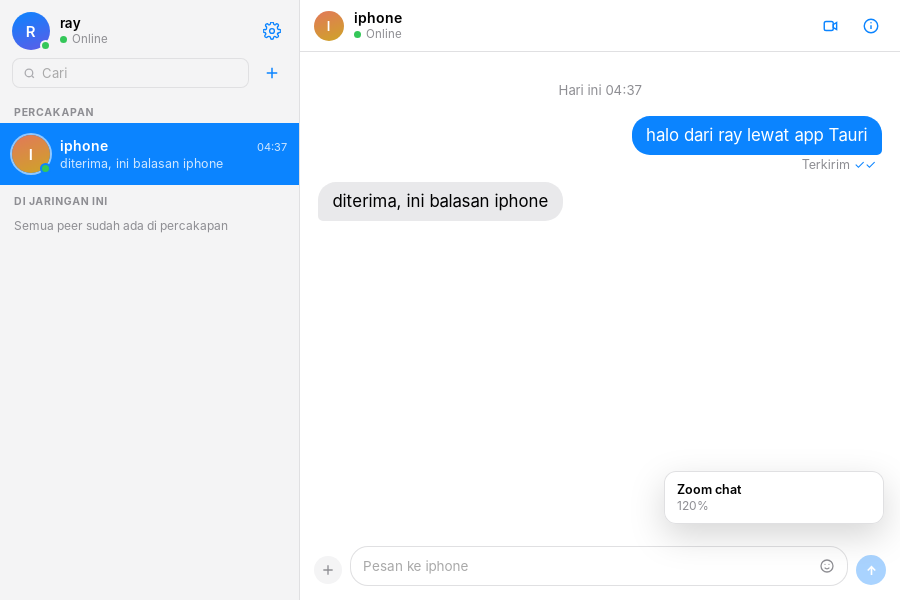
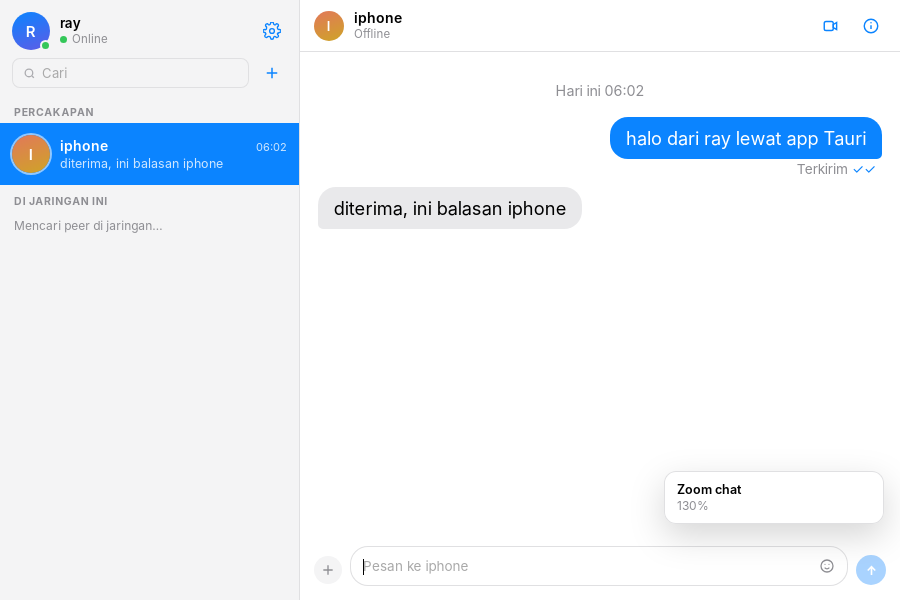
uji ulang pakai binary release 5.6MB; fix skrip E2E (fokus window, pkill self-kill); zoom dibuktikan via SQLite

diff --git a/docs/M1-M2-RESULT.md b/docs/M1-M2-RESULT.md
@@ -50,8 +50,9 @@ dengan nama pengirim di atas bubble untuk grup.
 | Kirim pesan via Enter | ✅ masuk DB, ack diterima, ✓✓ muncul |
 | Balas dari instance lain | ✅ sampai ke window pertama dan tampil sebagai bubble masuk |
 | Klik gear → modal Pengaturan | ✅ modal terbuka (Light/Dark, warna bubble, radius, zoom) |
-| `Ctrl + +` 4× | ✅ `settings.scale = 1.4`, teks chat membesar (110%–140% bertahap) |
-| `Ctrl + 0` | ✅ kembali ke 100% |
+| `Ctrl + +` 3× | ✅ `settings.scale` = 1.0 → **1.3**, toast "Zoom chat 130%" |
+| `Ctrl + scroll` down 2× | ✅ 1.3 → **1.1** |
+| `Ctrl + 0` | ✅ kembali ke **1.0** |
 | Window resize 760×480 dan 1180×720 | ✅ layout ikut menyesuaikan, min-width 720 dipatuhi |
 | Tema dark | ✅ warna & kontras terbaca, tidak ada elemen menutupi |
 | Badge unread | ✅ instance penerima menampilkan badge 1 sebelum thread dibuka, hilang setelah dibuka |
@@ -79,7 +80,17 @@ dengan nama pengirim di atas bubble untuk grup.
 - Sesi uji GUI di X11 rapuh: restart `xfwm4` menghilangkan window app, jadi uji klik
   dilakukan sebelum window manager di-restart.
 
-## 5. Tangkapan layar dari app nyata
+## 5. Build release
+
+```
+cargo build --release -p lanchat-desktop   → 16m 17s
+target/release/lanchat-desktop             → 5.6 MB
+```
+
+Binary release diuji ulang dengan skrip E2E yang sama (bukan cuma compile):
+`BIN=target/release/lanchat-desktop bash scripts/e2e-ui.sh` → chat dua arah + ✓✓ OK.
+
+## 6. Tangkapan layar dari app nyata
 
 Semua diambil dari window aplikasi asli (WebKitGTK, display :11), bukan mockup:
 
